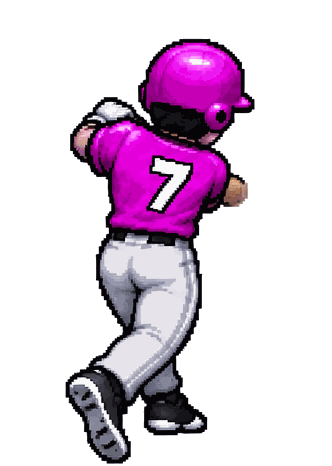
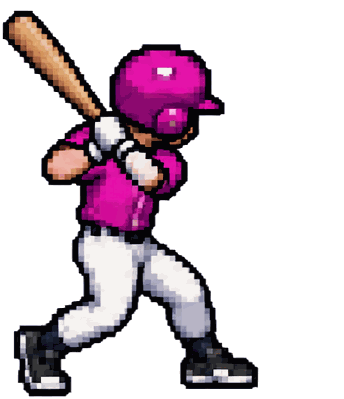
New swing sheet (extra bat erased from contact frame)

diff --git a/index.html b/index.html
@@ -214,7 +214,7 @@ function look(){
 }
 
 // ── season-long state ──────────────────────────────────────────────────────
-const BUILD = '11-01f';
+const BUILD = '11-01g';
 const SAVE = 'retrobaseball.v1';
 let G = null;
 

diff --git a/tools/erase_bat.py b/tools/erase_bat.py
@@ -1,0 +1,23 @@
+"""Erase the extra (diagonal) bat from frame 6 of batter_sheet5: only pixels within a thin band round that bat's own line that are
+not the kit's magenta, not skin-pink and not white."""
+import sys, numpy as np
+from PIL import Image
+sheet, out = sys.argv[1], sys.argv[2]
+a = np.array(Image.open(sheet).convert('RGB')).astype(int)
+ox, oy, sc = 384, 512, 2                       # frame 6 (row 2, col 2) crop origin, shown at 2x
+p0 = np.array([125., 150.]) / sc + [ox, oy]    # bat knob
+p1 = np.array([350., 330.]) / sc + [ox, oy]    # where the barrel goes behind the shoulder
+H, W, _ = a.shape
+yy, xx = np.mgrid[0:H, 0:W]
+d = p1 - p0; L2 = d @ d
+t = np.clip(((xx - p0[0]) * d[0] + (yy - p0[1]) * d[1]) / L2, 0, 1)
+dist = np.hypot(xx - (p0[0] + t * d[0]), yy - (p0[1] + t * d[1]))
+r, g, b = a[..., 0], a[..., 1], a[..., 2]
+white = (r > 232) & (g > 232) & (b > 232)
+magenta = (r > 120) & (b > 90) & (g < r * .62) & (g < b * .8)
+band = (dist < 27) & (xx < 384 + 345 / sc + 1) & (yy < 512 + 336 / sc)         # about 17 px each side of the line, stop short of the body
+kill = band & ~white & ~magenta
+a[kill] = 255
+print('erased', int(kill.sum()))
+Image.fromarray(a.astype(np.uint8)).save(out)
+Image.fromarray(a.astype(np.uint8)).crop((384, 512, 768, 1024)).resize((768, 1024)).save(out.replace('.png', '_f6.png'))
